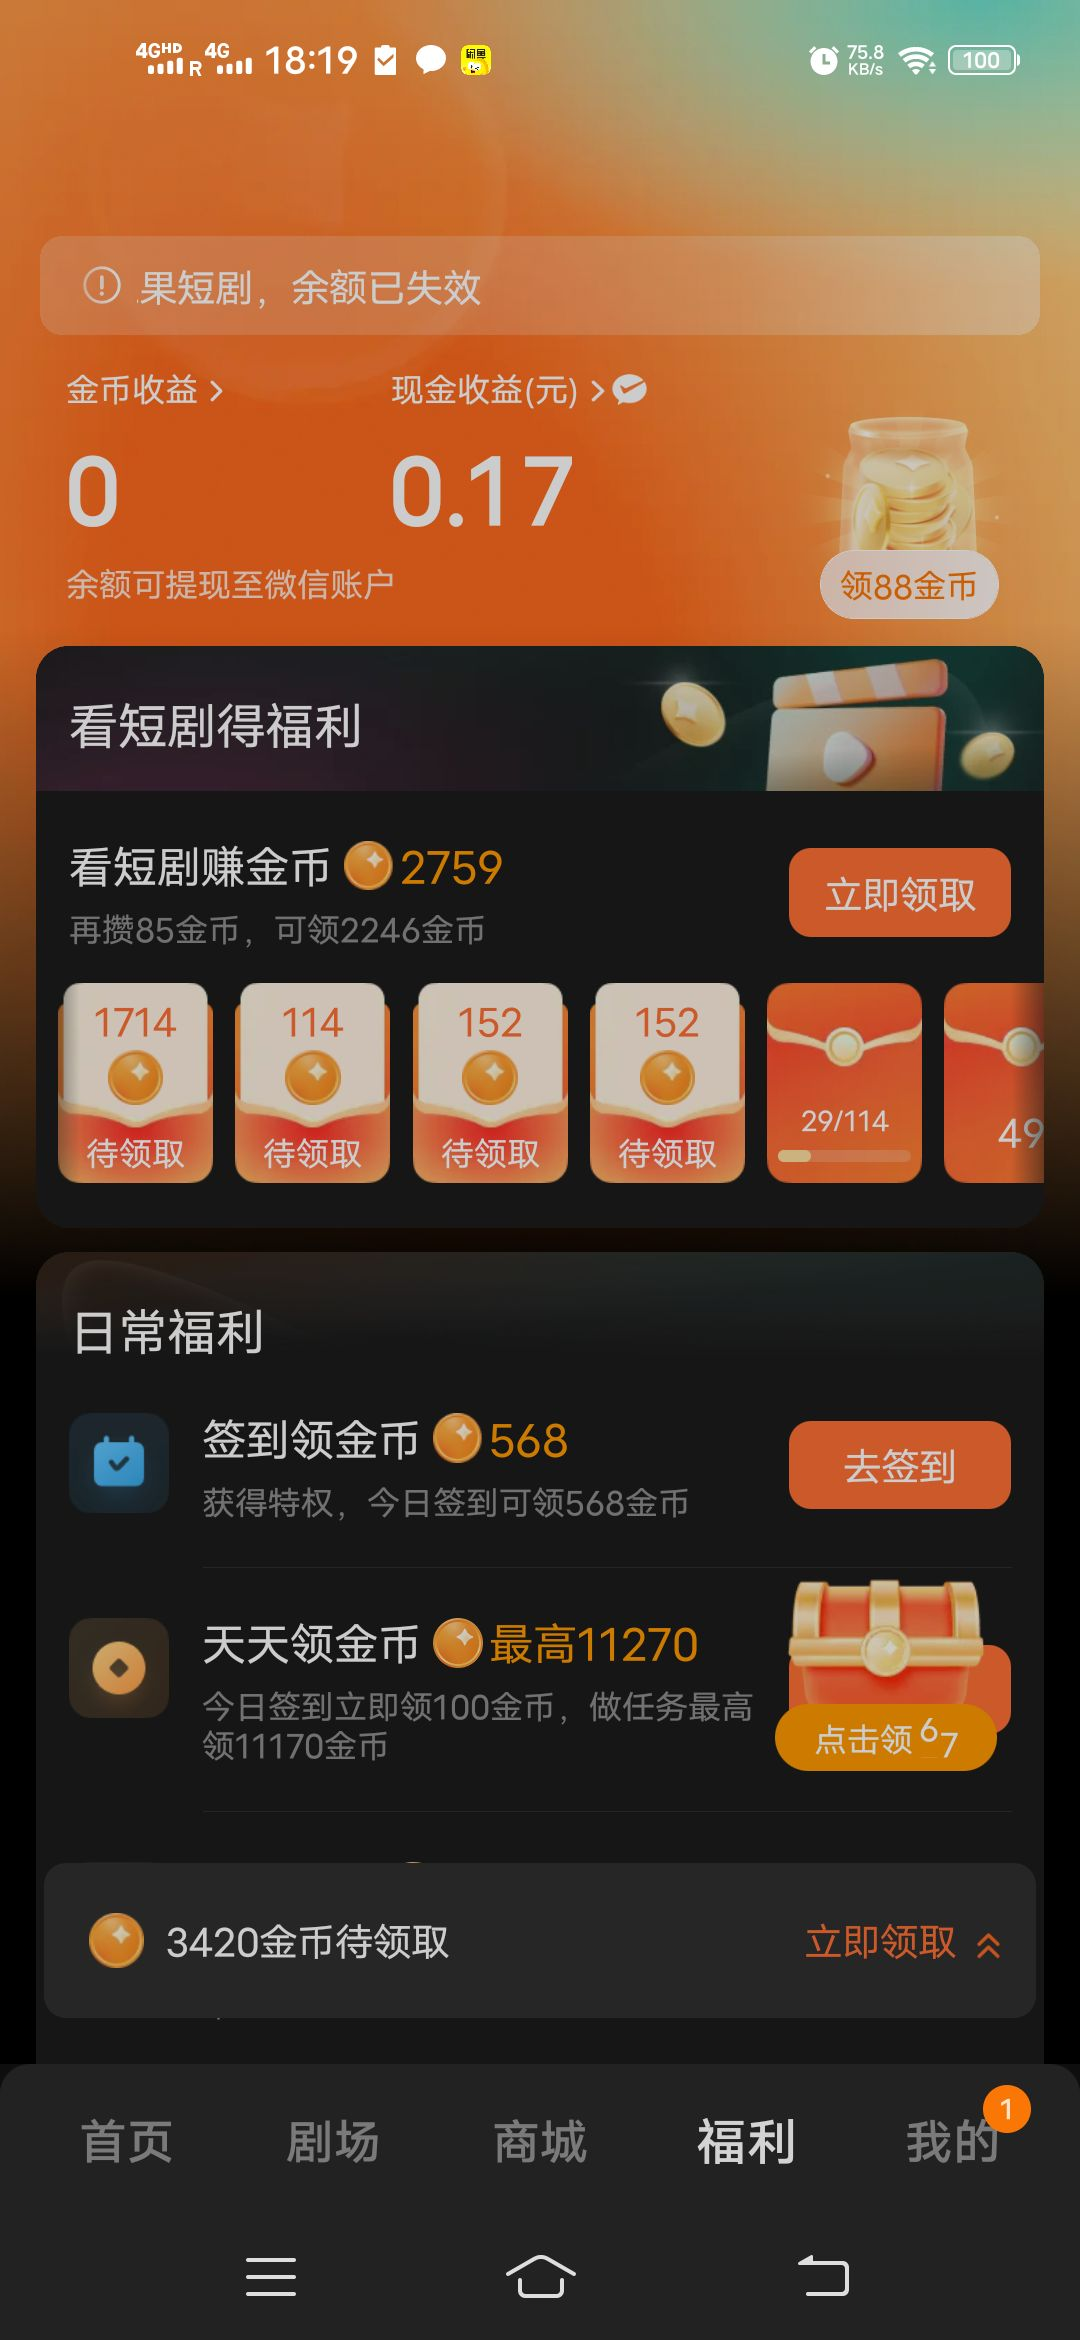
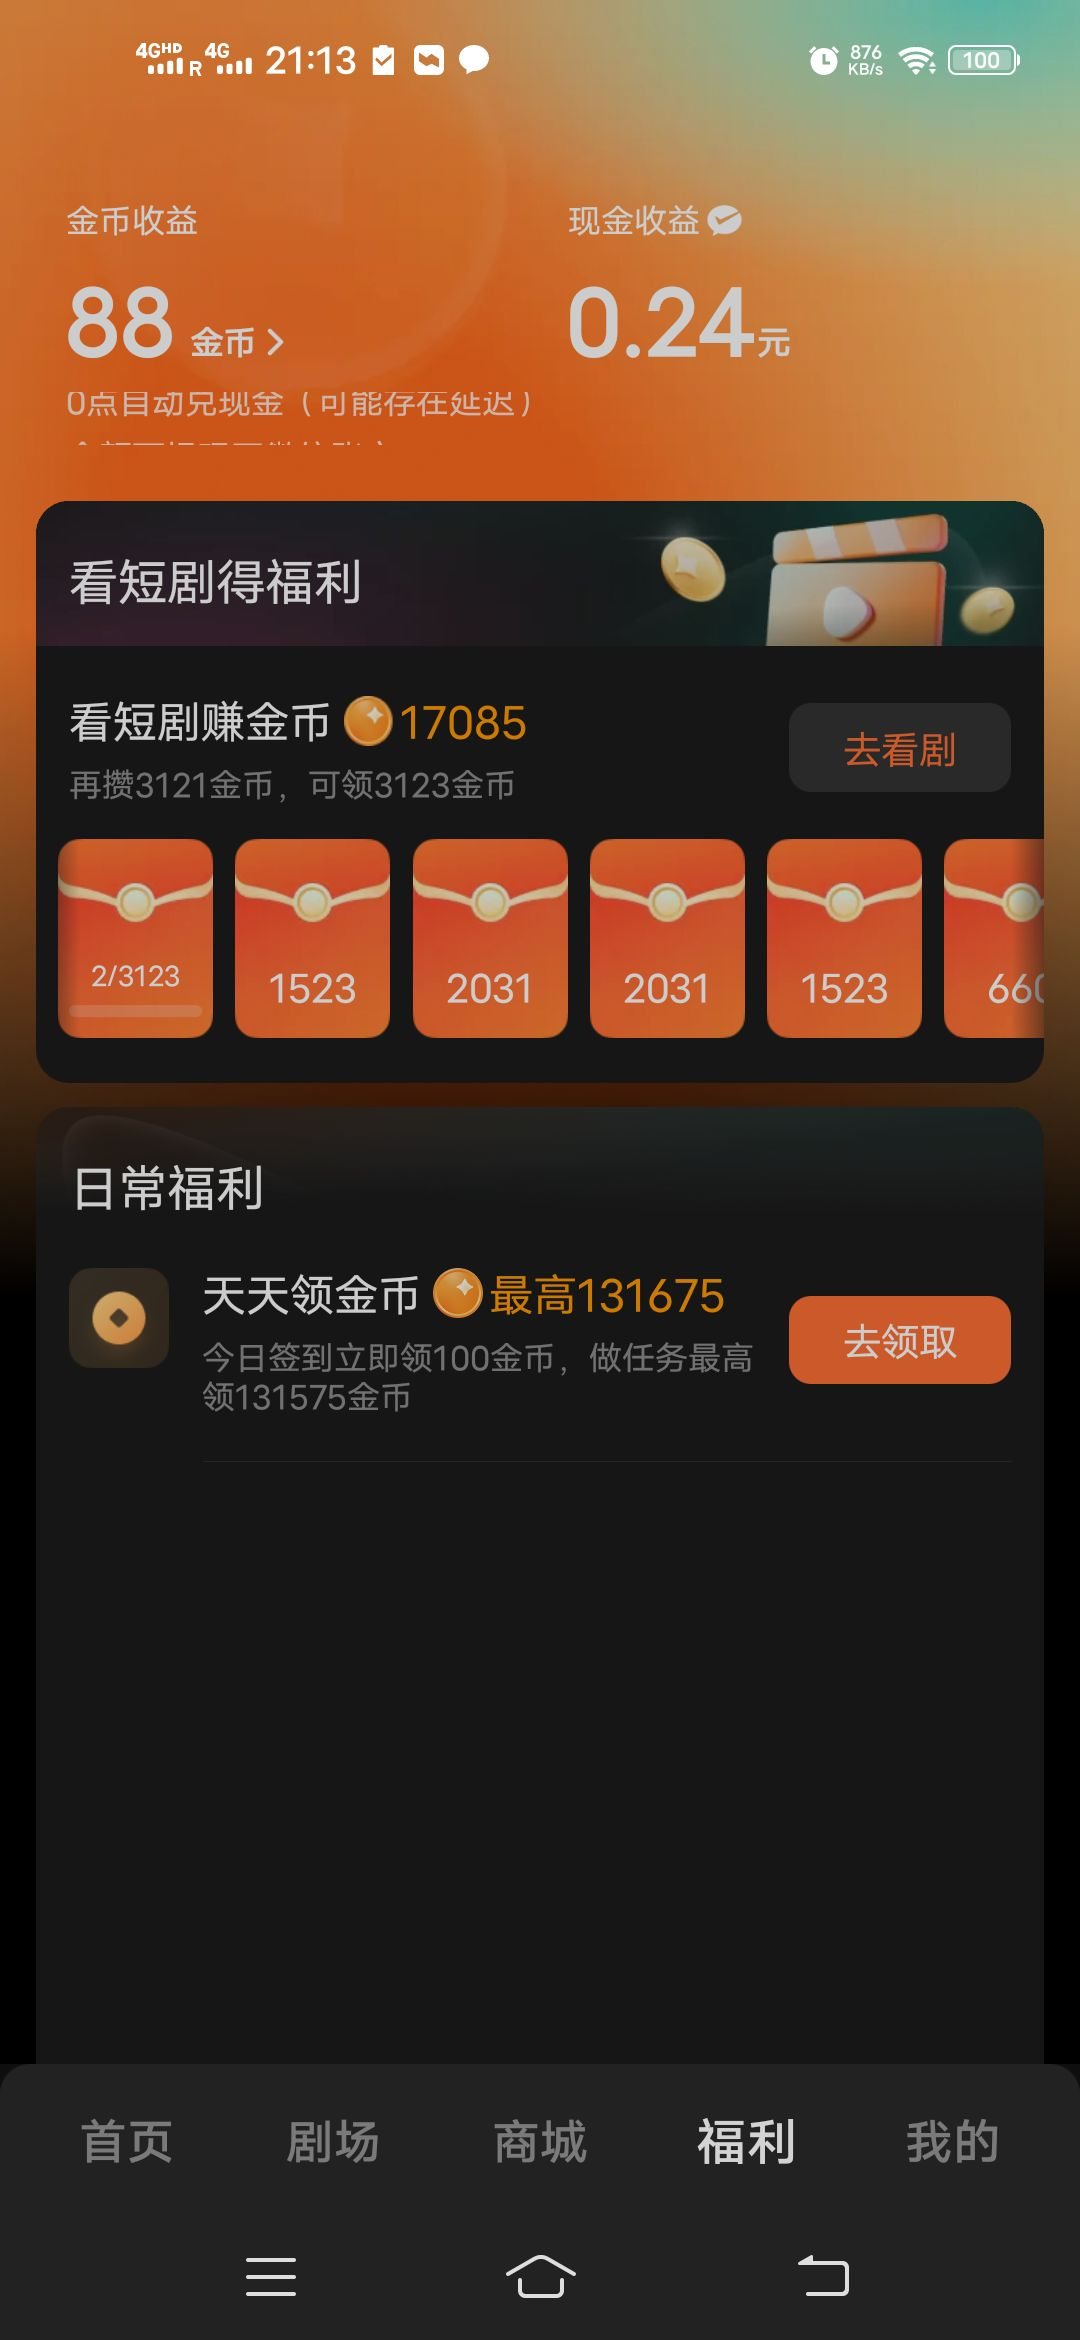
fix(红果): 11.11改版后sign全链重校准 + 模板判别精调
- 红果 sign 旧链路(福利tab→签到领金币[去签到]→弹窗[重新签到])失效，
  新链=日常福利→天天领金币→今日可领100[领取]（字节钱包集成, WebView）。
- 领取步= x/y+模板双配; 紧裁 btn_lingqu_tighter + 步骤级 template_threshold=0.9
  （未签1.0命中/已签0.7843不命中, 裕度0.1157), 已签日不再出假凭据。
- vision.py/locator.py: match_template/locate_on_screen 新增可选 threshold 覆盖,
  _vision_click 透传 act[template_threshold]（全局0.80不动, 零影响其他App）。
- verify_live.py first_anchor_action 修复漏认带图click_point(与is_anchor_action同口径),
  红果sign不再被误判无锚点动作; 回归钉 tests/test_anchor_anyof.py +2。
- 基线刷新(35 app深比较一致, bak_20261102_lingqu); 报告追加 §5。
- 门禁: pytest 562 passed / check_secrets OK / 实机已签日路径验证无假凭据。

diff --git a/vision.py b/vision.py
@@ -165,11 +165,12 @@ class VisionLocator:
         self._gray_cache[apath] = gray
         return gray, w, h
 
-    def match_template(self, screen_gray, template_path: str) -> TemplateMatch:
+    def match_template(self, screen_gray, template_path: str, threshold=None) -> TemplateMatch:
         """在屏幕灰度图上做多尺度模板匹配，返回最佳命中（None 表示未达到阈值）。
 
         screen_gray : 全屏截图灰度图（numpy uint8 2D）
         template_path: 模板图片路径（按钮局部截图）
+        threshold   : 可选，本次调用覆盖全局 template_threshold（按步骤精调判别用）
         """
         if not self.template_available:
             return None
@@ -203,7 +204,7 @@ class VisionLocator:
                     maxloc[0] + tws / 2.0,
                     maxloc[1] + ths / 2.0,
                     maxv, s)
-        if best is None or best.score < self.threshold:
+        if best is None or best.score < (self.threshold if threshold is None else threshold):
             return None
         return best
 
@@ -410,7 +411,7 @@ class VisionLocator:
     # 统一入口（供 executor 调用）
     # ------------------------------------------------------------------
     def locate_on_screen(self, templates=(), prompt="", screen_img=None,
-                         app="", tag=""):
+                         app="", tag="", threshold=None):
         """对当前全屏截图依次执行：OpenCV 模板匹配 -> VLM 定位。
 
         返回第一个有效的 TemplateMatch；全部失败返回 None。
@@ -418,6 +419,7 @@ class VisionLocator:
         prompt    : VLM 自然语言目标（在模板全部失败后尝试）
         screen_img: PIL.Image（当前设备截图）
         tag       : 日志标识，如 "click_text[每日签到]"
+        threshold : 可选，覆盖全局 template_threshold（按步骤精调判别用）
         """
         if not self.enabled:
             return None
@@ -439,7 +441,7 @@ class VisionLocator:
         # 1) OpenCV 模板匹配
         if self.template_available:
             for tpl in (templates or []):
-                hit = self.match_template(gray, tpl)
+                hit = self.match_template(gray, tpl, threshold)
                 if hit is not None:
                     self._log(
                         f"视觉兜底[模板] 命中 {os.path.basename(str(tpl))} "

diff --git a/tests/test_anchor_anyof.py b/tests/test_anchor_anyof.py
@@ -122,6 +122,42 @@ def t_two_level_anyof_unchanged():
     print("OK  二级 any_of 语义不变")
 
 
+def t_first_anchor_image_click_point():
+    """flat 行为唯一锚点是「带图 click_point」-> first_anchor_action 必须找到。
+
+    回归（2026-11-02）：早期 first_anchor_action 只认 ANCHOR_TYPES+any_of，
+    漏掉带图 click_point，导致红果 sign 这类「唯一锚点是图像 click_point」的
+    行为被 verify_live 误判为「无锚点动作」（不进命中率分母）。
+    """
+    from verify_live import first_anchor_action
+    actions = [
+        {"type": "click_point", "x": 0.73, "y": 0.887, "vision": False},   # 纯坐标，非锚点
+        {"type": "think"},
+        {"type": "click_point", "x": 0.828, "y": 0.578, "vision": False},  # 纯坐标，非锚点
+        {"type": "click_point", "x": 0.819, "y": 0.349,
+         "images": ["images/红果免费短剧/btn_lingqu_tighter.png"],
+         "template_threshold": 0.9},                                        # 带图 = 锚点
+    ]
+    idx, act = first_anchor_action(actions)
+    assert act is not None, "带图 click_point 应被识别为锚点"
+    assert idx == 3, f"应命中第 4 步（idx=3），实际 idx={idx}"
+    assert act.get("images") and act.get("template_threshold") == 0.9, act
+    print("OK  带图 click_point 被 first_anchor_action 识别为锚点（idx=3）")
+
+
+def t_first_anchor_ignores_pure_coordinate():
+    """纯比例坐标 click_point（无图）不算锚点，first_anchor_action 不返回它。"""
+    from verify_live import first_anchor_action
+    actions = [
+        {"type": "click_point", "x": 0.9, "y": 0.915, "vision": False},  # 导航前置步
+        {"type": "think"},
+        {"type": "click_point", "x": 0.5, "y": 0.5, "vision": False},    # 纯坐标兜底
+    ]
+    idx, act = first_anchor_action(actions)
+    assert act is None, f"纯比例坐标不应算锚点，实际 {act}"
+    print("OK  纯比例坐标 click_point 不算锚点")
+
+
 def t_nav_point_is_not_treated_as_anchor():
     """导航 click_point 不是锚点，不能靠它"命中"。"""
     act = {"type": "any_of", "optional": True, "choices": [[dict(NAV)]]}

diff --git a/devtools/verify_live.py b/devtools/verify_live.py
@@ -103,9 +103,17 @@ def first_anchor_action(actions):
     """返回 (索引, 动作)；行为可能是 [[..],[..]] 变体结构。
 
     `any_of` 也算锚点动作（真正的锚点在其 choices 里），由 check_anchor 展开。
+    `click_point` 带参考图（images/template）的算锚点（与 is_anchor_action 同口径）；
+    不带图的纯比例坐标兜底不算。修复：早期漏了 POINT_TYPE，导致「唯一锚点是图像
+    click_point」的行为（如红果 sign）被误判为无锚点动作。
     """
     for i, act in enumerate(_variant_of(actions)):
-        if isinstance(act, dict) and act.get("type") in ANCHOR_TYPES + ("any_of",):
+        if not isinstance(act, dict):
+            continue
+        t = act.get("type")
+        if t in ANCHOR_TYPES + ("any_of",):
+            return i, act
+        if t == POINT_TYPE and (act.get("images") or act.get("template")):
             return i, act
     return None, None
 

diff --git a/locator.py b/locator.py
@@ -329,7 +329,8 @@ class Locator:
         hit = self.vision.locate_on_screen(
             templates=templates or None,
             prompt=prompt or None,
-            screen_img=img, app=app_name, tag=desc)
+            screen_img=img, app=app_name, tag=desc,
+            threshold=act.get("template_threshold"))
         if hit is None:
             self.recorder.log(f"视觉兜底全部未命中，放弃该步: {desc}", app_name, "WARN")
             return False

diff --git a/docs/全量跑35app对比_2026-11-02.md b/docs/全量跑35app对比_2026-11-02.md
@@ -120,3 +120,50 @@
 - 蛋花 sign 新增「动作未命中」（视觉模板点击后落地校验未过）→ 另立项细查。
 - 抖音火山版四连超时 → 专项未完（11-01 已定位根因，全量环境未消）。
 - 悟空浏览器「点击前元素已失效」3 处（类型变，非「未找到赚钱」）→ 与本族独立，另查。
+
+---
+
+## 5. 追加：红果免费短剧 sign 全链重校准 + 模板判别精调（2026-11-02 晚间，21:00–22:00）
+
+> 本段为全量跑（17:20–18:33）**之后**的追加工作，故不改写上面第 2 节表格（其口径=全量时刻）。
+
+### 5.1 根因：族C 不是 phash 漂移，是 App 改版（11.11 改版后旧链路整体失效）
+
+- 旧链路「福利tab → 签到领金币[去签到] → 弹窗[重新签到]」已失效。
+- 现场取证：签到入口现为 **日常福利 → 天天领金币 → 今日可领100 [领取]**（字节钱包集成），
+  天天领金币页为 **WebView**（u2 dump 仅 117 节点，看不到 领取/今日已领 文案）。
+- 结论：`phash_region`/阈值调参无效，正确修复=**全链重校准**（新入口/新坐标/新参考图/新凭据路径）。
+
+### 5.2 新链配置（`config/apps/33_红果免费短剧.yaml`）
+
+```
+福利tab(0.73,0.887) → [think] → 天天领金币[去领取](0.828,0.578) → 今日可领100[领取](0.819,0.349 + 模板)
+```
+- 福利tab 落地校验 `ref_welfare.png`（重拍，phash 阈值 15），实机 dist=2（新图）/11（本轮复测）。
+- [领取]步 = x/y + 视觉模板双配：模板命中（橙色「领取」）→ `视觉兜底点击成功`（点击凭据）；
+  已签日模板不中 → 坐标 no-op（灰「今日已领」），不报失败。
+
+### 5.3 模板判别精调（关键：已签日不能出假凭据）
+
+- 旧宽裁 `btn_lingqu.png`：未签=0.99996 / 已签=0.852 —— 都 > 全局 0.80 → **已签日会误命中产假凭据**。
+- 紧裁 `btn_lingqu_tighter.png`（805-980×795-845）：未签=1.0000 / 已签=0.7843。
+  - 全局 0.80 下：已签 0.7843 勉强 <0.80，裕度仅 **0.0157**（太薄，UI 微变即翻车）。
+  - 加**步骤级 `template_threshold: 0.9`**：未签 1.0>0.9 命中；已签 0.7843<0.9 不命中，裕度 **0.1157**。
+- 实现：`vision.py::match_template`/`locate_on_screen` 新增可选 `threshold` 覆盖；`locator.py::_vision_click`
+  透传 `act["template_threshold"]`。全局 `template_threshold`（0.80）不动，仅此步覆盖，零影响其他 App。
+- **实机验证（已签日路径）**：`视觉兜底[模板] 未命中 btn_lingqu_tighter.png` → 坐标 no-op(880,811)，
+  无 `视觉兜底点击成功` → sign_evidence=未确认（正确：已签无可再签，不假报）。
+- 未签日路径：离线复测未签=1.0>0.9 必然命中（次日 7:00 后再做实机确认）。
+
+### 5.4 verify_live 误判 bug（顺带修复）
+
+- `verify_live.py::first_anchor_action` 早期只认 `ANCHOR_TYPES+any_of`，**漏掉带图 click_point**，
+  与 `is_anchor_action` 口径不一致 → 红果 sign 这类「唯一锚点是图像 click_point」的行为被误判
+  「无锚点动作」（不进命中率分母）。修复：`first_anchor_action` 纳入带图 `click_point`。
+- 回归钉：`tests/test_anchor_anyof.py` +2（`t_first_anchor_image_click_point` / `t_first_anchor_ignores_pure_coordinate`）。
+
+### 5.5 门禁
+
+- `pytest tests/`：**562 passed**（含新增 2 条锚点回归钉）；`check_secrets` OK。
+- `test_config_split_parity` 深比较：**35 个 app 顺序一致**（基线已按 5.2 刷新，`config.yaml.split_baseline.bak_20261102_lingqu` 为刷新前快照）。
+- 已删除未引用的 `btn_lingqu.png`/`btn_lingqu_tight.png`；`ref_welfare_20261024.png` 留作本地回滚备份（不入库）。
